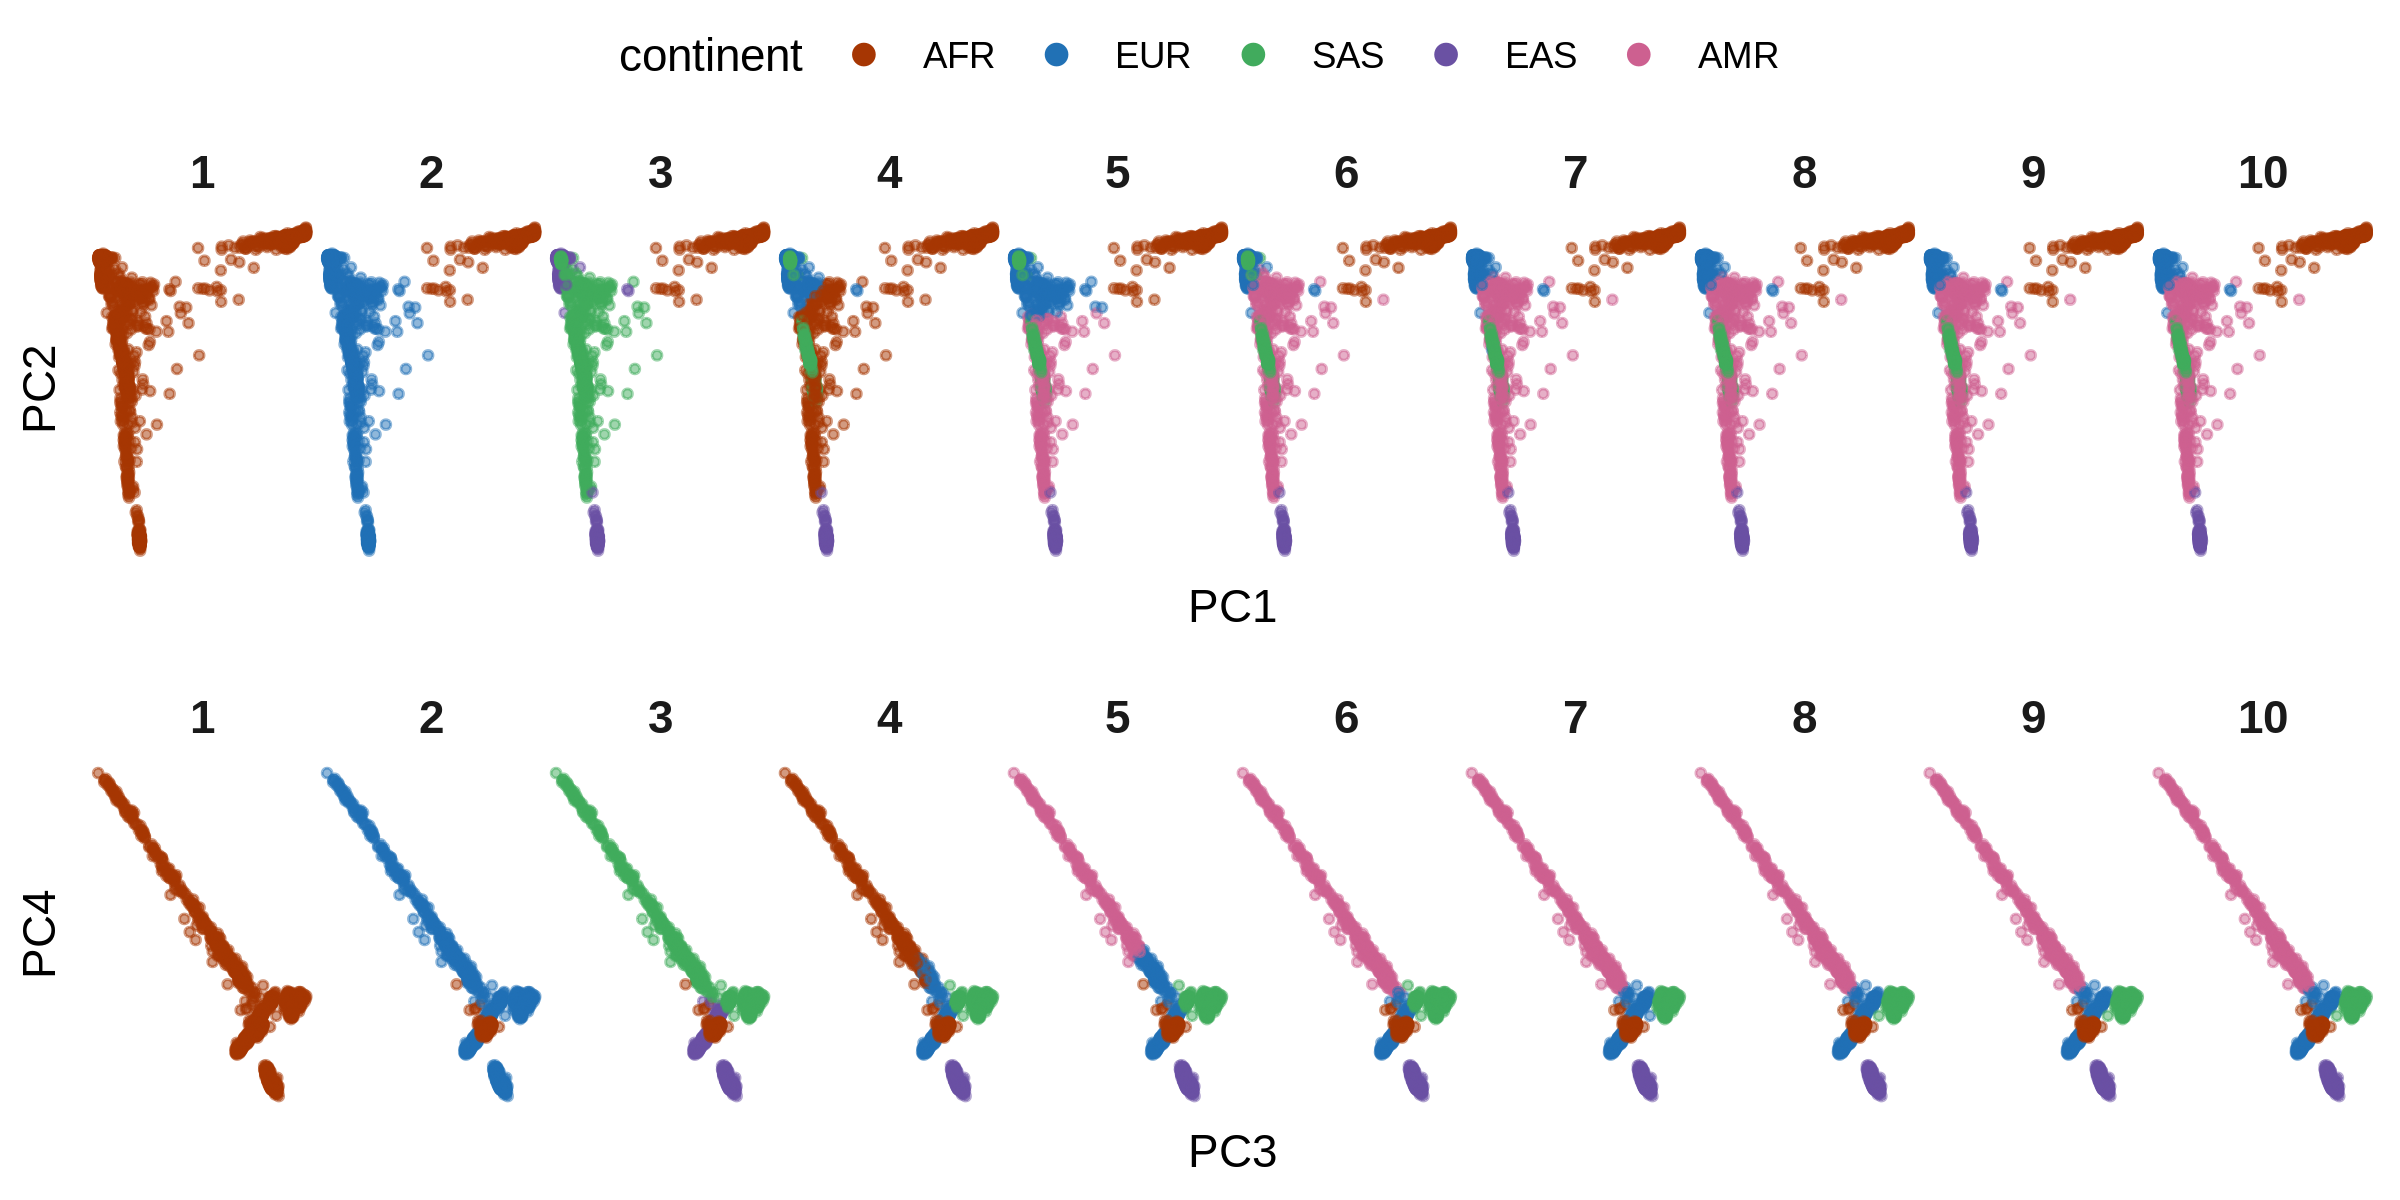
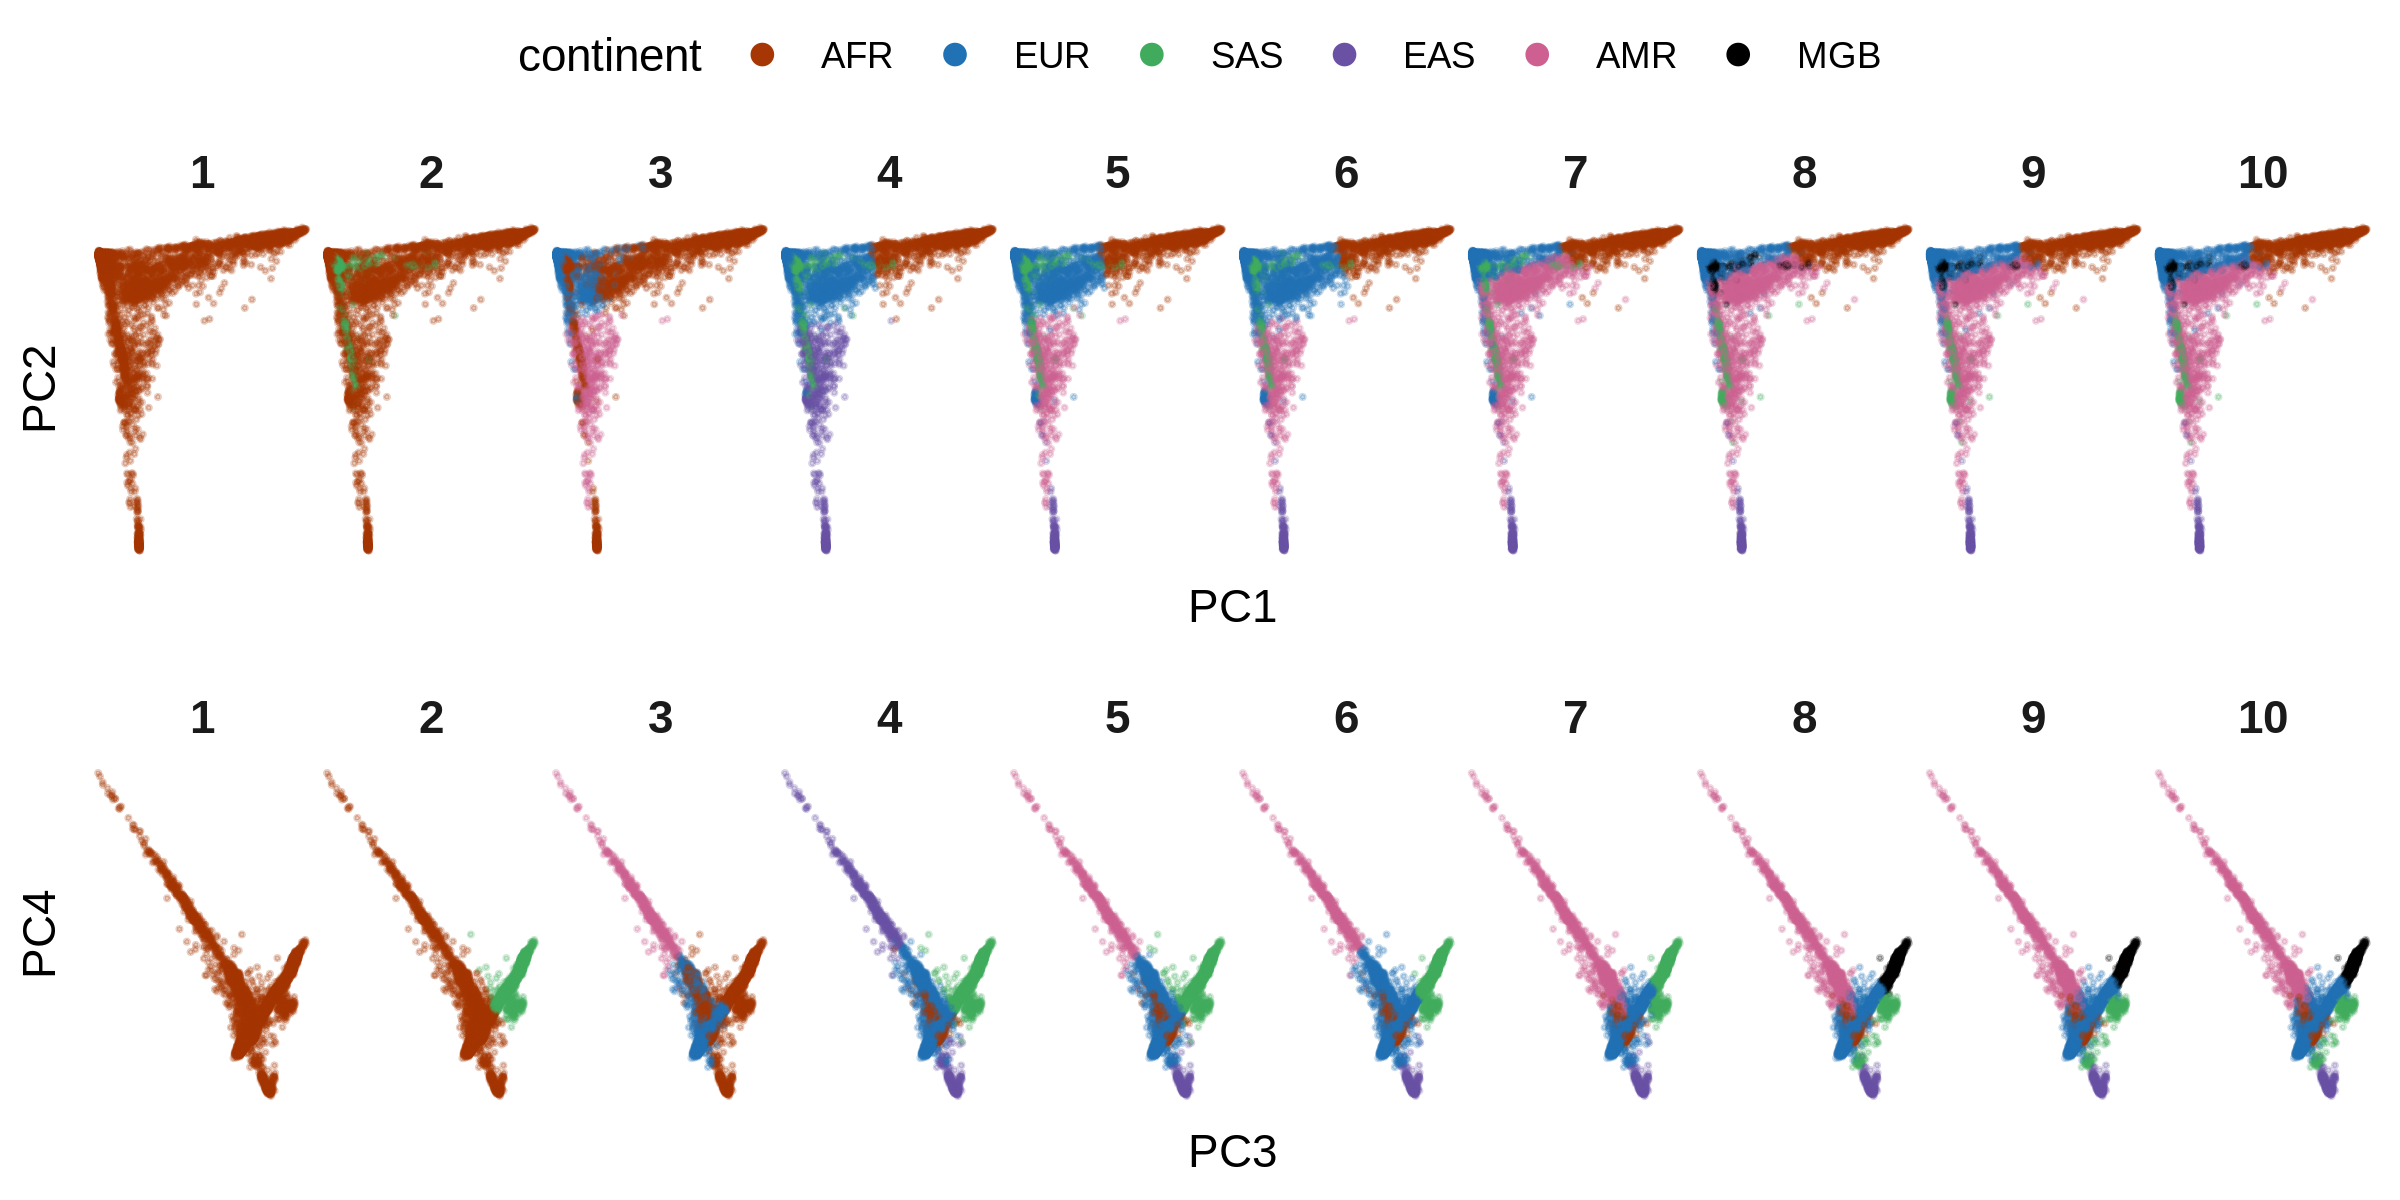
add plots

diff --git a/README.md b/README.md
@@ -13,7 +13,7 @@ For the `.sh` scripts, I execute them with the command
 
 ### 1.1. Input data:
 
--   1 individual, 5 timepoints:
+-   1 individual sequenced at:
     -   Resting for 16 hours
     -   IgG stim for 24 hours
     -   IgG stim for 72 hours
@@ -109,7 +109,7 @@ resting or test condition.
 
 #### 1.3.7. Comparison of FC for each stimulant
 
-<img src="./plots/fc_24vs72.png" width="1500" />
+<img src="./plots/fc_24vs72.png" width="1800" />
 
 ### 1.4. TO DO:
 
@@ -162,7 +162,7 @@ The workflow for the analyses below is described in
         datasets;
     -   Filter both datasets for the common set of variants;
     -   Merge VCFs and run LD pruning for r2 &lt; 0.1;
-    -   oncatenate VCFs for each chromosome into a single VCF.
+    -   Concatenate VCFs for each chromosome into a single VCF.
 -   PCA:
     -   plink pca
 -   ADMIXTURE
@@ -191,11 +191,11 @@ the 5 main continental groups.
 First, I ran the cross-validation procedure of ADMIXTURE to determine
 the best value of K (number of clusters).
 
-<img src="./plots/admixture_cv.png" width="2153" />
+<img src="./plots/admixture_cv.png" width="2109" />
 
 And this is the separation we get in 1000 Genomes data:
 
-<img src="./plots/admixture.1000G.allK.png" width="2100" />
+<img src="./plots/admixture.1000G.allK.png" width="2109" />
 
 Next, I asked ADMIXTURE to project the MGB biobank onto the 1000 Genomes
 reference in order to determine the ancestry proportions in MGB biobank.
@@ -216,14 +216,31 @@ continental group for each cluster.
 
 <img src="./plots/clusters.png" width="2400" />
 
-K=7 seems to make sense to extract the individuals with high European
-ancestry. I computed a heterogeneity score, defined as the degree of
-homogeneity regarding called continental groups at each cluster, using
-known continental groups for the 1000 Genomes data. For example, if at
-cluster X we have 90% of individuals from a 1000G European population,
-the score will equal 0.9.
+I computed specificity defined as the proportion of correct calls for
+continental groups at each cluster, using known continental groups for
+the 1000 Genomes data. For example, if at cluster X we have 90% of
+individuals from a 1000G European population, the score will equal 0.9.
 
 <img src="./plots/kmeans_accuracy.png" width="1500" />
+
+The specificity suggests K = 7 as the optimal value. However, in the
+plot above we see that K = 7 does not correctly deal with a MGB subgroup
+which appears to refer to European ancestries which are not sampled in
+the 1000 Genomes data.
+
+Anyway, for MGB data, no value of K seems to be very specific, as the
+algorithm is clustering admixed individuals as Europeans.
+
+##### PCA-based selection
+
+Therefore, I’ve decided to simply select individuals based on PC1 and
+PC2 values.
+
+I computed the mean and SD for PC1 and PC2 in 1000 Genomes Europeans,
+and computed a z-score for each MGB individuals, selecting all
+individuals falling between -3 and +3 SDs.
+
+<img src="./plots/pca_eur.png" width="1800" />
 
 #### SLE variants
 
@@ -246,3 +263,8 @@ This is the relationship between the two scores:
 This are the distributions according the European ancestry:
 
 <img src="./plots/het_score_density.png" width="1800" />
+
+We can see that heterozygosity increases with European ancestry. We can
+also see that if we color the PCA plot by heterozygosity.
+
+<img src="./plots/pca_het_scores.png" width="1200" />
